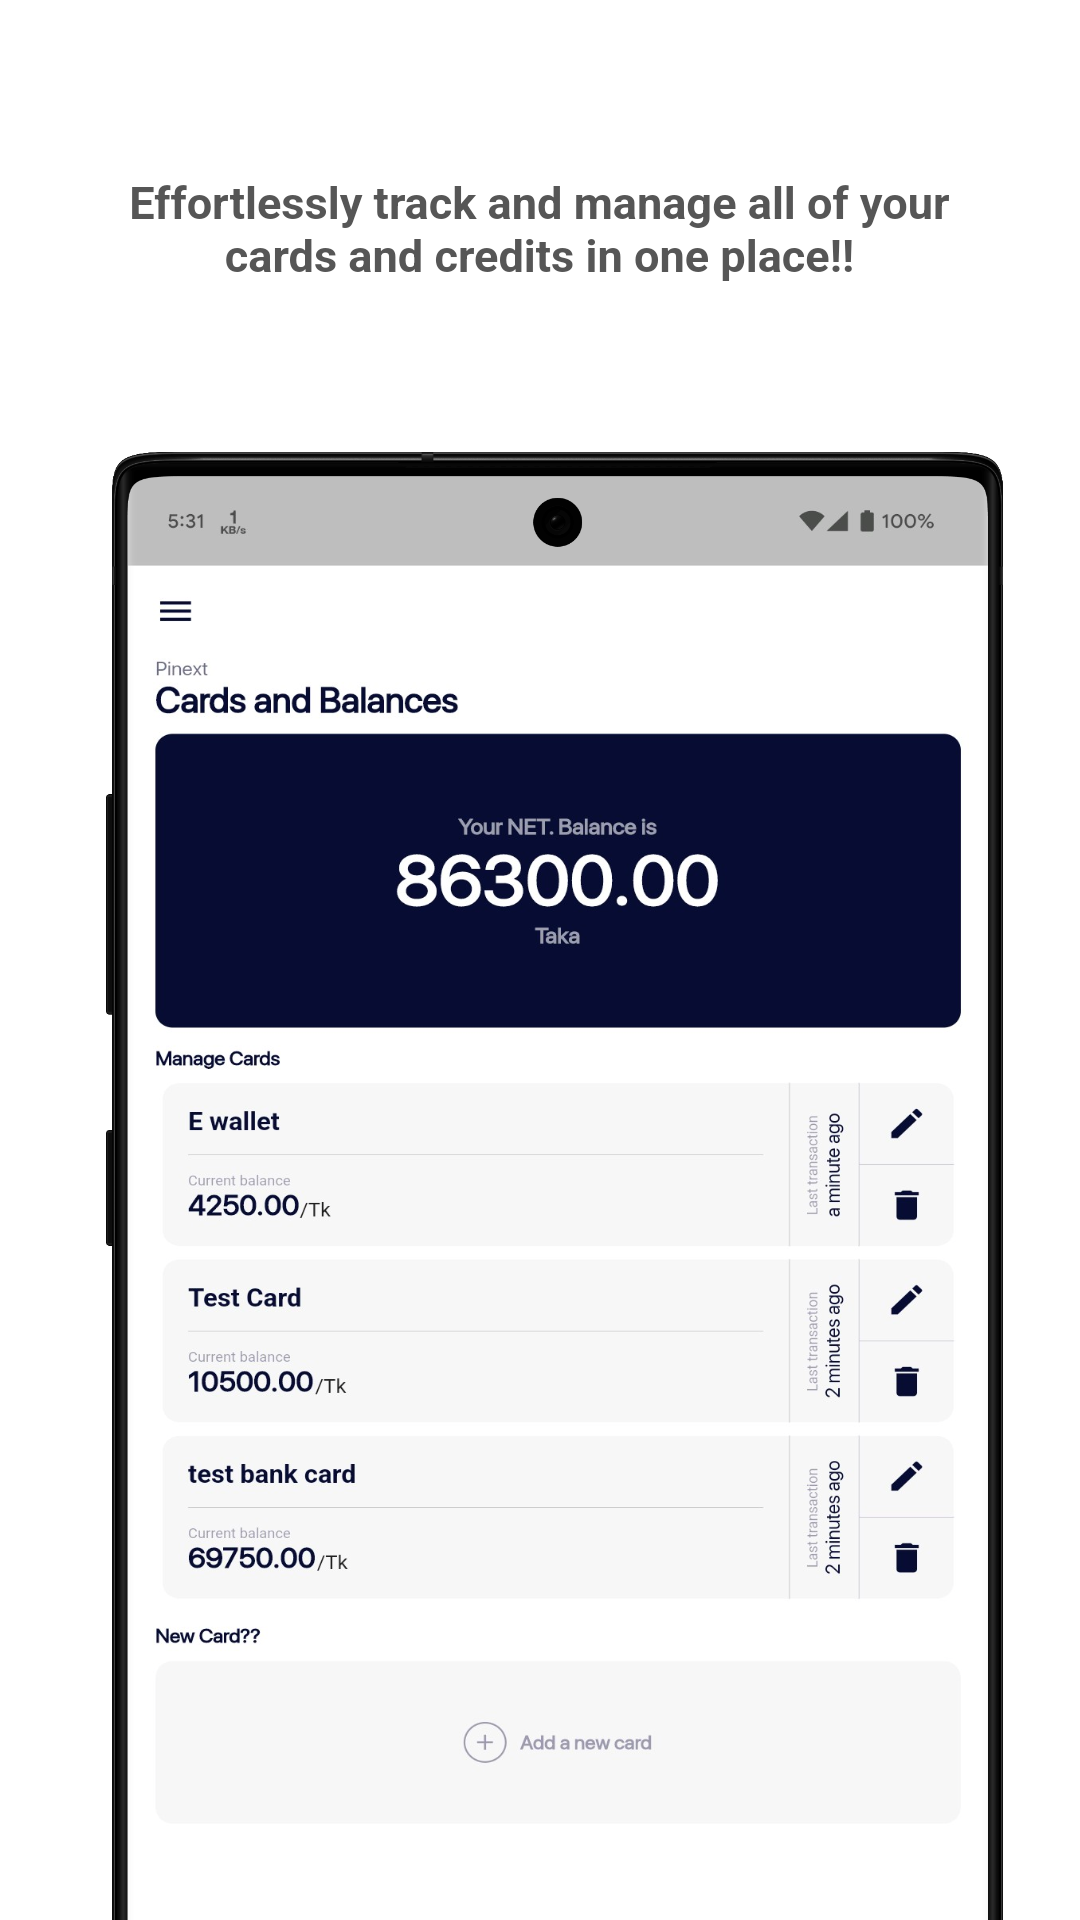
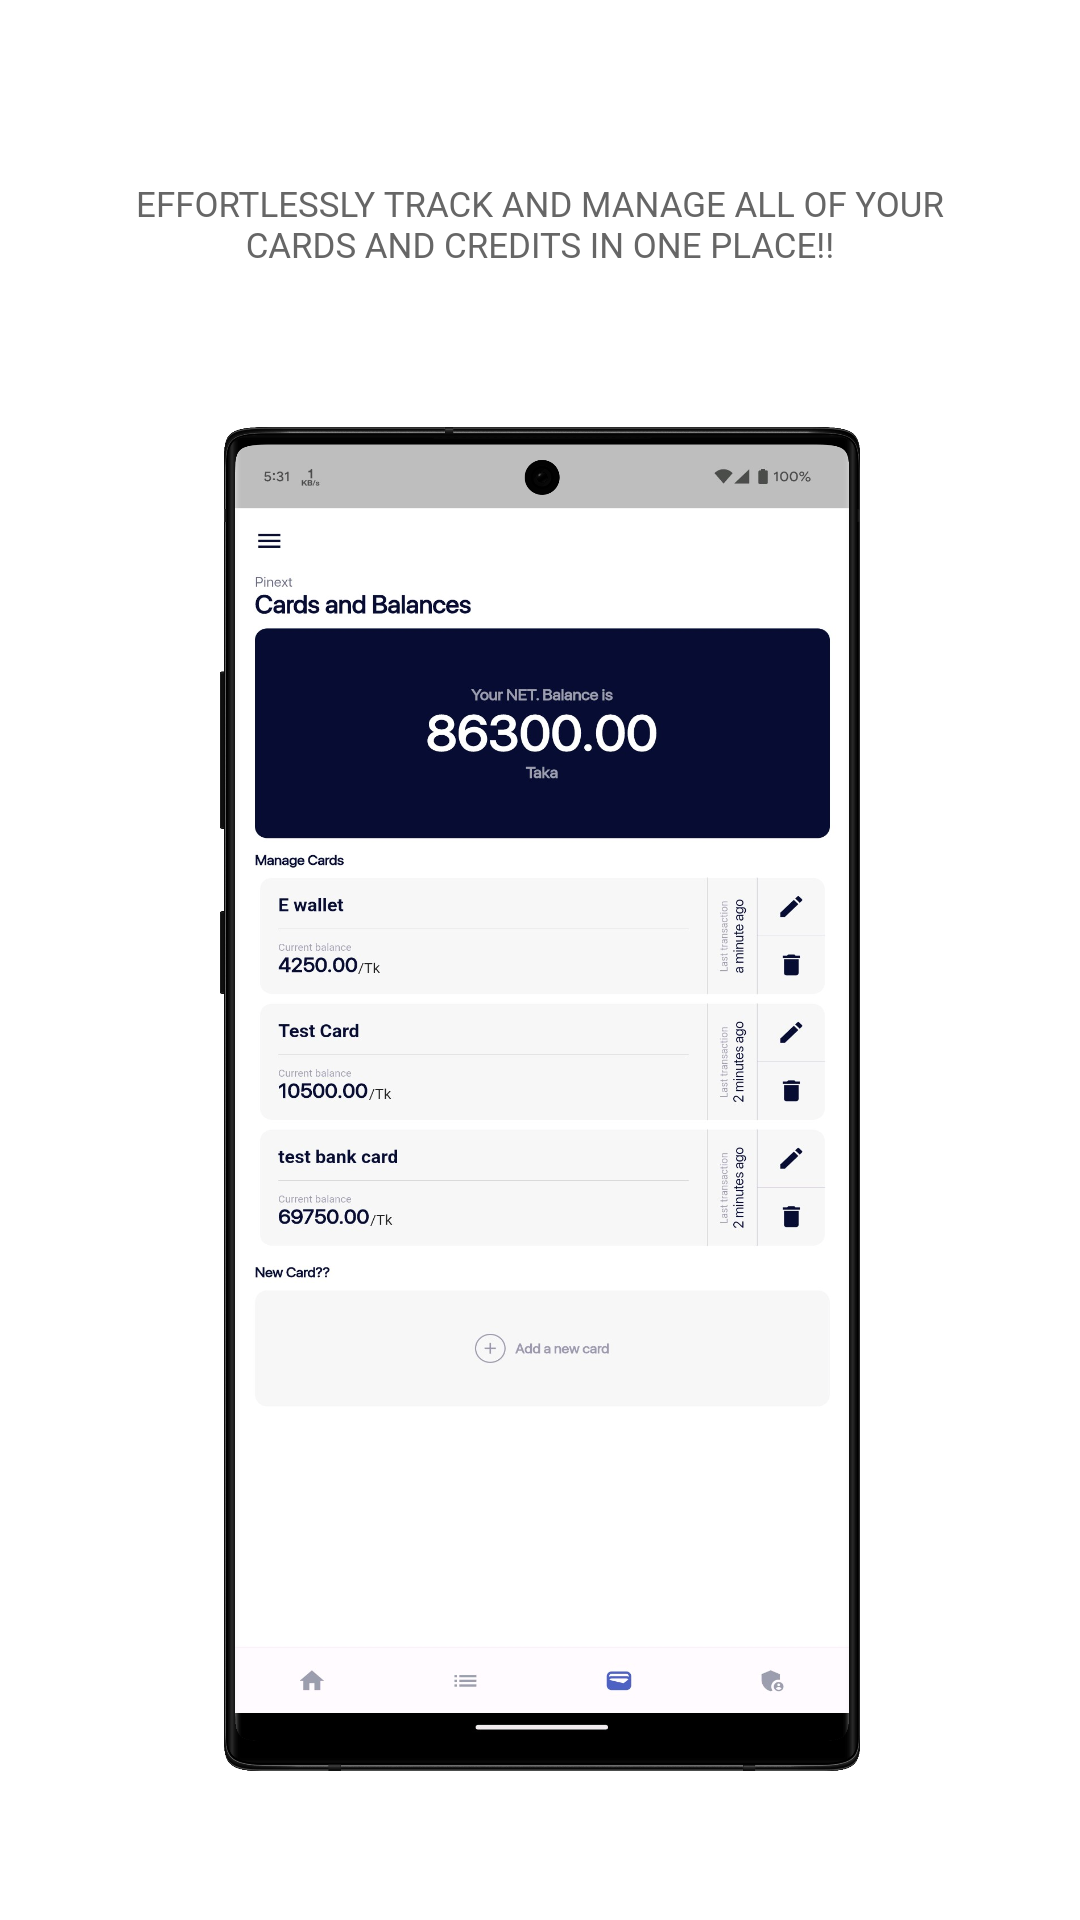
Updated promotional images

Changed region(s): [[0.0917, 0.2188, 0.9472, 1.0], [0.1222, 0.0938, 0.8861, 0.1562], [0.6722, 0.5938, 0.7028, 0.625]]

diff --git a/README.md b/README.md
@@ -2,11 +2,11 @@
 
 ## A full-stack personal expense tracker using Bloc, Firebase and Flutter.
 
-PINEXT is a personal income expense tracking app that allows individuals to track their income and expenses on their mobile phones. The app includes a backend system for storing and organizing financial data, as well as user authentication to ensure that only authorized users can access the information. The app also offers a range of features to help users manage their finances, such as the ability to input and categorize income and expenses, set budgets and financial goals, and receive alerts when their montly budgets are running low. It also provide useful insights and analysis, such as budgeting advice and generating reports, to help users understand their financial situation and make more informed decisions
+PINEXT is a personal income expense tracking app that allows individuals to track their income and expenses on their mobile phones. The app includes a backend system for storing and organizing financial data, as well as user authentication to ensure that only authorized users can access the information. The app also offers a range of features to help users manage their finances, such as the ability to input and categorize income and expenses, set budgets and financial goals, and receive alerts when their monthly budgets are running low. It also provides useful insights and analysis, such as budgeting advice and generating reports, to help users understand their financial situation and make more informed decisions.
 
 In other words PINEXT can be a valuable tool for individuals looking to better understand their financial situation and make more informed decisions about how to save and spend their money.
 
-## Promotional Images
+## In App Screenshots
 
 <p align="center">
 <img src="https://github.com/WorkWithAfridi/Pinext-PersonalIncomeExpenseTrackingApp/blob/master/assets/promotional_images/promo_img_1.png" width="360" height="665">
